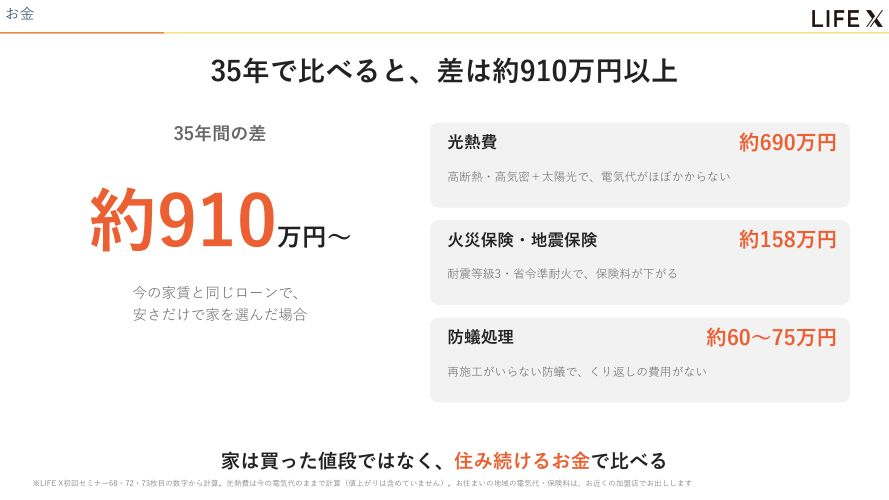
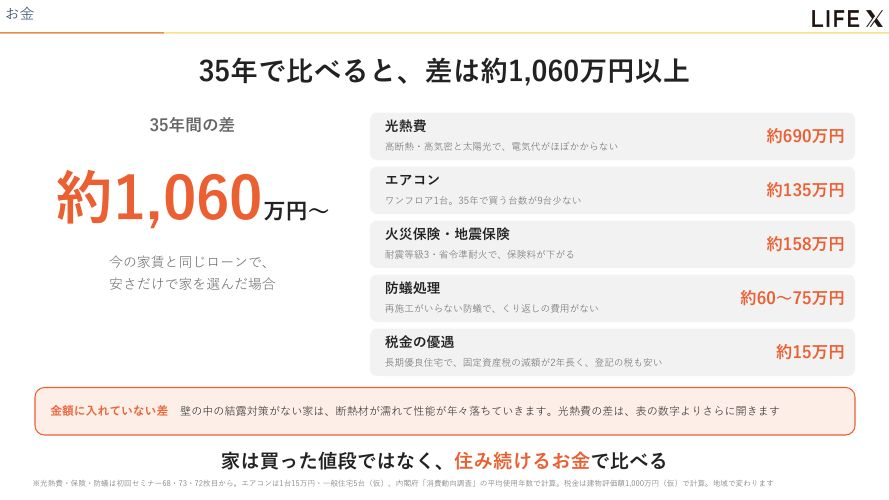
更新：35年比較にエアコン・税金・結露を追加

diff --git a/webinar-kousei-20261120.html b/webinar-kousei-20261120.html
@@ -126,7 +126,7 @@ var NEW={
  N21:["アンケートのお願い","気になるプランを最大3つと、ご相談の希望を伺う。"],
  N22:["ご相談までの流れ","今夜：予約枠をメール・SMSでお送り → 翌日：お電話でご都合を伺う → 近くの加盟店様でご相談。"],
  N23:["ローンが同じでも、住んでからのお金は同じではない","今の家賃と同じ月13万円のローンでも、安さで選んだ一般的な住宅は光熱費・防蟻・保険で毎月約2.2万円の上乗せ。数字は初回セミナー68・72・73枚目を月割り。"],
- N24:["35年で比べると、差は約910万円以上","光熱費 約690万円・保険 約158万円・防蟻 約60〜75万円。家は買った値段ではなく、住み続けるお金で比べる。"]
+ N24:["35年で比べると、差は約1,060万円以上","光熱費 約690万円・エアコン 約135万円（仮）・保険 約158万円・防蟻 約60〜75万円・税金の優遇 約15万円（仮）。金額に入れていない差として、壁体内結露で断熱性能が年々落ちることを添える。"]
 };
 var CH=[
  {no:"00",nm:"はじめに",mn:"3分",use:[1,2,3],nw:["N1","N2"]},
